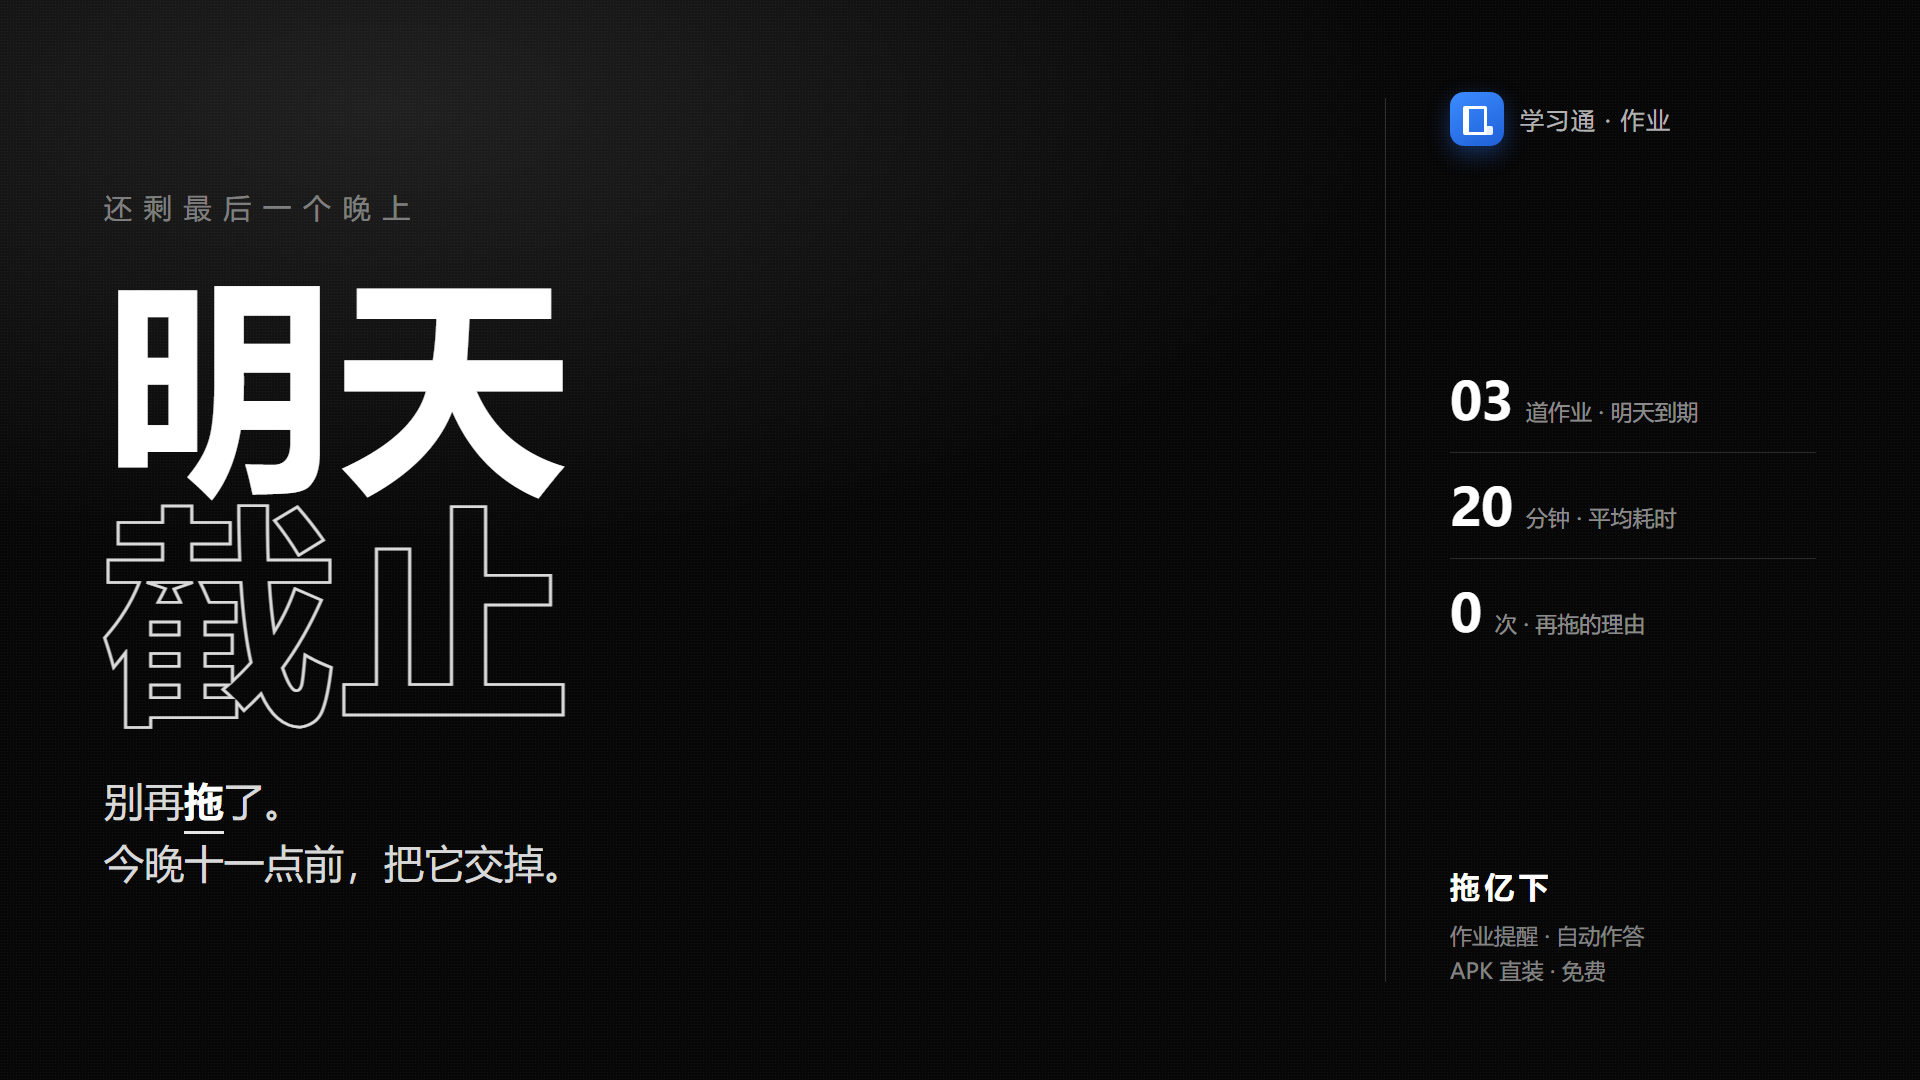
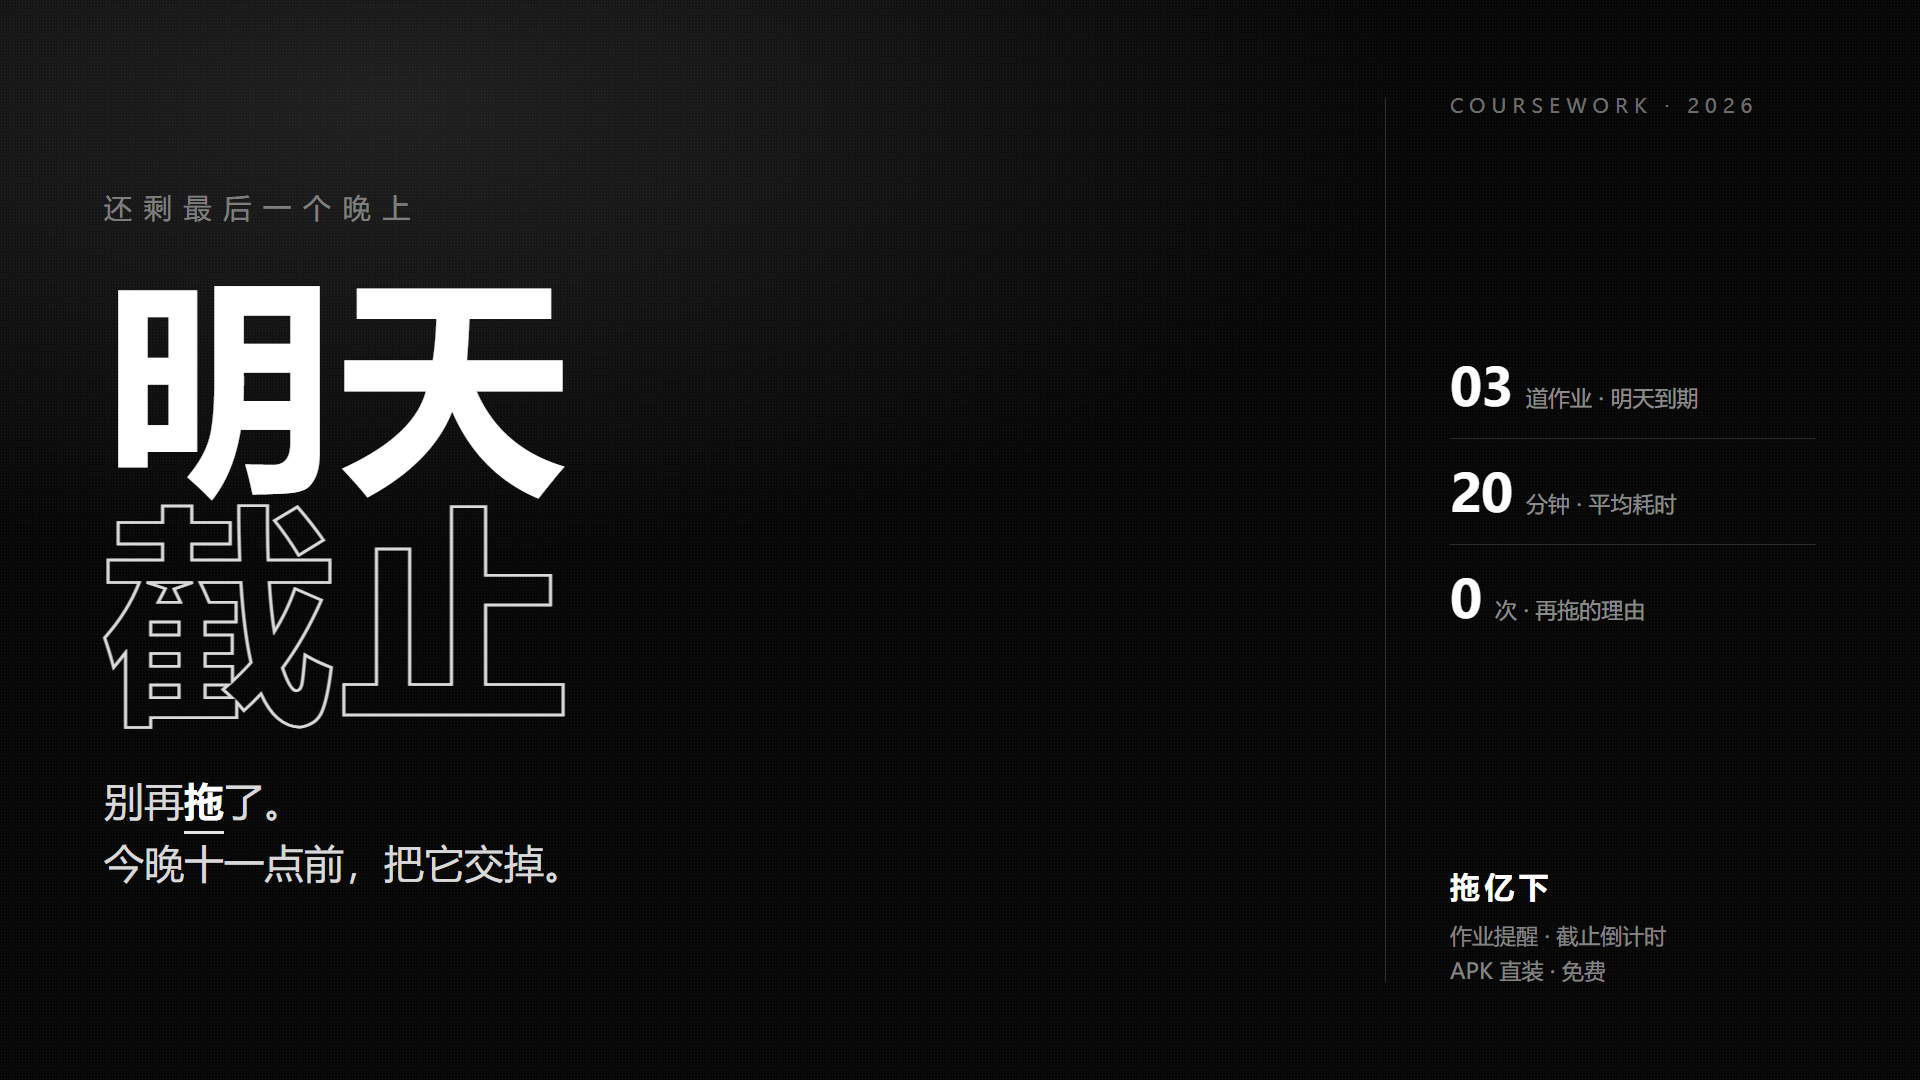
chore: 文案去品牌化，统一称「课程平台」；v1.0.5
- README 与封面图不再出现平台品牌名
- 登录页标题、协议正文、重登提示、解题提示统一改写
- 仓库简介改为中性的「课程作业截止提醒工具」

diff --git a/app/src/main/assets/solver.js b/app/src/main/assets/solver.js
@@ -1,5 +1,5 @@
 /*
- * solver.js —— 超星学习通「作业作答页」题型识别与自动填充
+ * solver.js —— 作业作答页的题型识别与自动填充
  *
  * 适配要点（不同账号、不同课程、不同题型都要能用）：
  *  1. 题目容器：div.questionLi[typeName][data=qid]（老模板可能没有 typeName，用 #answertype{qid} 兜底）
@@ -172,7 +172,7 @@
   function findKeyOption(opts, want) {
     var letters = 'ABCDEFGHIJKLMNOP';
     var w = String(want || '').toUpperCase().replace(/[^A-Z]/g, '');
-    // ① 先按 data 精确匹配（选项键就是学习通内部字母）
+    // ① 先按 data 精确匹配（选项键就是页面内部的字母）
     var byKey = opts.filter(function (o) { return o.key && o.key.toUpperCase() === w; });
     if (byKey.length) return byKey[0].key;
     // ② 按显示字母（有些模板 data 与显示一致）

diff --git a/app/src/main/java/com/keepup/course/SettingsActivity.java b/app/src/main/java/com/keepup/course/SettingsActivity.java
@@ -158,7 +158,7 @@ public class SettingsActivity extends Activity {
     private void confirmClear() {
         new AlertDialog.Builder(this)
                 .setTitle(R.string.clear_account)
-                .setMessage("将清除本机保存的登录状态、作业记录和提醒，学习通账号本身不受影响。")
+                .setMessage("将清除本机保存的登录状态、作业记录和提醒，平台账号本身不受影响。")
                 .setPositiveButton("清除", (d, w) -> clear())
                 .setNegativeButton("取消", null)
                 .show();

diff --git a/app/src/main/java/com/keepup/course/WorkActivity.java b/app/src/main/java/com/keepup/course/WorkActivity.java
@@ -45,7 +45,7 @@ import java.util.function.Consumer;
  */
 public class WorkActivity extends Activity {
     private static final String SYSTEM_PROMPT =
-            "你是学习通的作业解题助手。用户会给你一份作业的题目，请逐题给出可以直接提交的答案。"
+            "你是课程作业的解题助手。用户会给你一份作业的题目，请逐题给出可以直接提交的答案。"
                     + "只输出 JSON 数组，不要任何解释文字。格式：[{\"i\":1,\"answer\":\"B\"}]";
 
     private WebView web;

diff --git a/app/src/main/java/com/keepup/course/MainActivity.java b/app/src/main/java/com/keepup/course/MainActivity.java
@@ -349,7 +349,7 @@ public class MainActivity extends Activity {
     private void showAuthDialog() {
         new AlertDialog.Builder(this)
                 .setTitle(R.string.auth_expired)
-                .setMessage("需要重新登录学习通才能继续同步。")
+                .setMessage("需要重新登录课程平台才能继续同步。")
                 .setPositiveButton(R.string.relogin, (d, w) -> {
                     Prefs.setCookies(this, "[]");
                     Http.reset();

diff --git a/app/src/main/java/com/keepup/course/CookieStore.java b/app/src/main/java/com/keepup/course/CookieStore.java
@@ -164,7 +164,7 @@ public class CookieStore implements CookieJar {
         if (old != null) cookies.remove(old);
     }
 
-    /** 本地是否已经存有学习通的登录 UID（说明网页端确实登录成功过）。 */
+    /** 本地是否已经存有平台的登录 UID（说明网页端确实登录成功过）。 */
     public synchronized boolean hasUid() {
         try {
             JSONArray arr = new JSONArray(Prefs.cookies(context));

diff --git a/README.md b/README.md
@@ -1,6 +1,6 @@
 # 拖亿下 · tuoyixia
 
-> 一个只做一件事的安卓小工具：**把学习通的作业盯住，截止前提醒你，点进去还能一键作答。**
+> 一个只做一件事的安卓小工具：**把散在各门课里的作业盯住，截止前提醒你；打开作业时，顺手帮你把题做了。**
 
 <p align="center">
   <img src="docs/banner.png" alt="拖亿下" width="880">
@@ -8,7 +8,7 @@
 
 <p align="center">
   <a href="https://github.com/sqyCoder/tuoyixia/releases/latest">
-    <img alt="下载 APK" src="https://img.shields.io/badge/⬇_下载_APK-v1.0.4-E9B824?style=for-the-badge&labelColor=121212">
+    <img alt="下载 APK" src="https://img.shields.io/badge/⬇_下载_APK-v1.0.5-E9B824?style=for-the-badge&labelColor=121212">
   </a>
   <a href="https://github.com/sqyCoder/tuoyixia/stargazers">
     <img alt="stars" src="https://img.shields.io/github/stars/sqyCoder/tuoyixia?style=for-the-badge&labelColor=121212&color=E9B824">
@@ -16,7 +16,7 @@
 </p>
 
 <p align="center">
-  <img alt="version" src="https://img.shields.io/badge/version-1.0.4-E9B824?style=flat-square">
+  <img alt="version" src="https://img.shields.io/badge/version-1.0.5-E9B824?style=flat-square">
   <img alt="platform" src="https://img.shields.io/badge/Android-8.0%2B-121212?style=flat-square&logo=android&logoColor=white">
   <img alt="size" src="https://img.shields.io/badge/APK-3.2MB-E9B824?style=flat-square">
   <img alt="license" src="https://img.shields.io/badge/license-MIT-121212?style=flat-square">
@@ -36,7 +36,7 @@
 
 | | 功能 | 说明 |
 |---|---|---|
-| 📚 | 作业自动同步 | 一次拉到所有课程的作业、截止时间、提交状态 |
+| 📚 | 作业自动同步 | 一次拉到所有课程的作业、截止时间、提交状态（需登录学校课程平台） |
 | ⏰ | 截止前提醒 | 按剩余时间分级提醒，可自定义提前量与频率 |
 | 🎯 | 一屏看重点 | 未交 / 今天 / 已截止筛选，最近截止卡片显示倒计时 |
 | ✍ | 进作业自动作答 | 识别单选、多选、判断、填空、简答，AI 生成后自动填入 |
@@ -45,15 +45,14 @@
 <p align="center">
   <img src="docs/home.jpg" width="30%" alt="首页">
   <img src="docs/settings.jpg" width="30%" alt="设置">
-  <img src="docs/agreement.jpg" width="30%" alt="协议">
 </p>
 
 ---
 
 ## 使用方法
 
-1. **下载安装**：点上面的按钮，或到 [Releases](https://github.com/sqyCoder/tuoyixia/releases) 下载 `tuoyixia-v1.0.4.apk`（约 3.2 MB），允许"安装未知来源应用"。
-2. **登录**：首次打开会先弹用户协议，同意后进入登录页——在**学习通官方页面**里正常登录，然后点"我已完成登录"。
+1. **下载安装**：点上面的按钮，或到 [Releases](https://github.com/sqyCoder/tuoyixia/releases) 下载 `tuoyixia-v1.0.5.apk`（约 3.2 MB），允许"安装未知来源应用"。
+2. **登录**：首次打开会先弹用户协议，同意后进入登录页——在**课程平台的官方登录页**里正常登录，然后点"我已完成登录"。
 3. **同步**：回到首页点「立即同步」，等它把作业拉下来（首次会逐门课取，稍慢）。
 4. **设提醒**：设置里打开通知权限，设定提前提醒的时间。
 5. **作答**：点任意一条作业 → 进入真实作业页 → 点「解题助手」→ 等答案填入 → **自己检查一遍** → 提交。
@@ -86,7 +85,7 @@ API Key    sk-xxxxxxxx
 
 ```mermaid
 flowchart TB
-    A["登录页<br/>WebView 打开学习通官网"] -->|"登录完成后复制 Cookie 到本机"| B
+    A["登录页<br/>WebView 打开平台官网"] -->|"登录完成后复制 Cookie 到本机"| B
     B["作业同步<br/>OkHttp + 本地 Cookie"] --> C["课程接口<br/>courselistdata"]
     C --> D["取每门课凭证<br/>workEnc / enc / t"]
     D --> E["作业接口<br/>work/list"]
@@ -99,7 +98,7 @@ flowchart TB
     K --> L["你按提交"]
 ```
 
-关键点：**不做模拟登录**。账号密码是在学习通自己的页面里输入的，App 不接触；它只保存登录后的 Cookie，后续请求都带着这个 Cookie。所有答题、提交都在真实页面上完成，没有伪造接口。
+关键点：**不做模拟登录**。账号密码是在平台自己的页面里输入的，App 不接触；它只保存登录后的 Cookie，后续请求都带着这个 Cookie。所有答题、提交都在真实页面上完成，没有伪造接口。
 
 ---
 
@@ -165,7 +164,7 @@ app/src/main/
 
 本项目仅供个人学习辅助，用于**管理自己的作业截止时间**与减少重复劳动。
 
-- 请遵守所在学校的规定与学习通的服务条款；
+- 请遵守所在学校的规定与所用平台的服务条款；
 - AI 生成的答案仅供参考，**提交前必须自行核对**；
 - 禁止用于代考、替学等违规用途，因使用产生的后果由使用者自行承担。
 
@@ -174,6 +173,9 @@ app/src/main/
 ---
 
 ## 更新记录
+
+**v1.0.5**
+- 文案去品牌化：登录、协议、提示统一改为「课程平台」
 
 **v1.0.4**
 - 免费通道改为多模型轮换 + 退避重试，修复部分用户"接口返回空答案"
